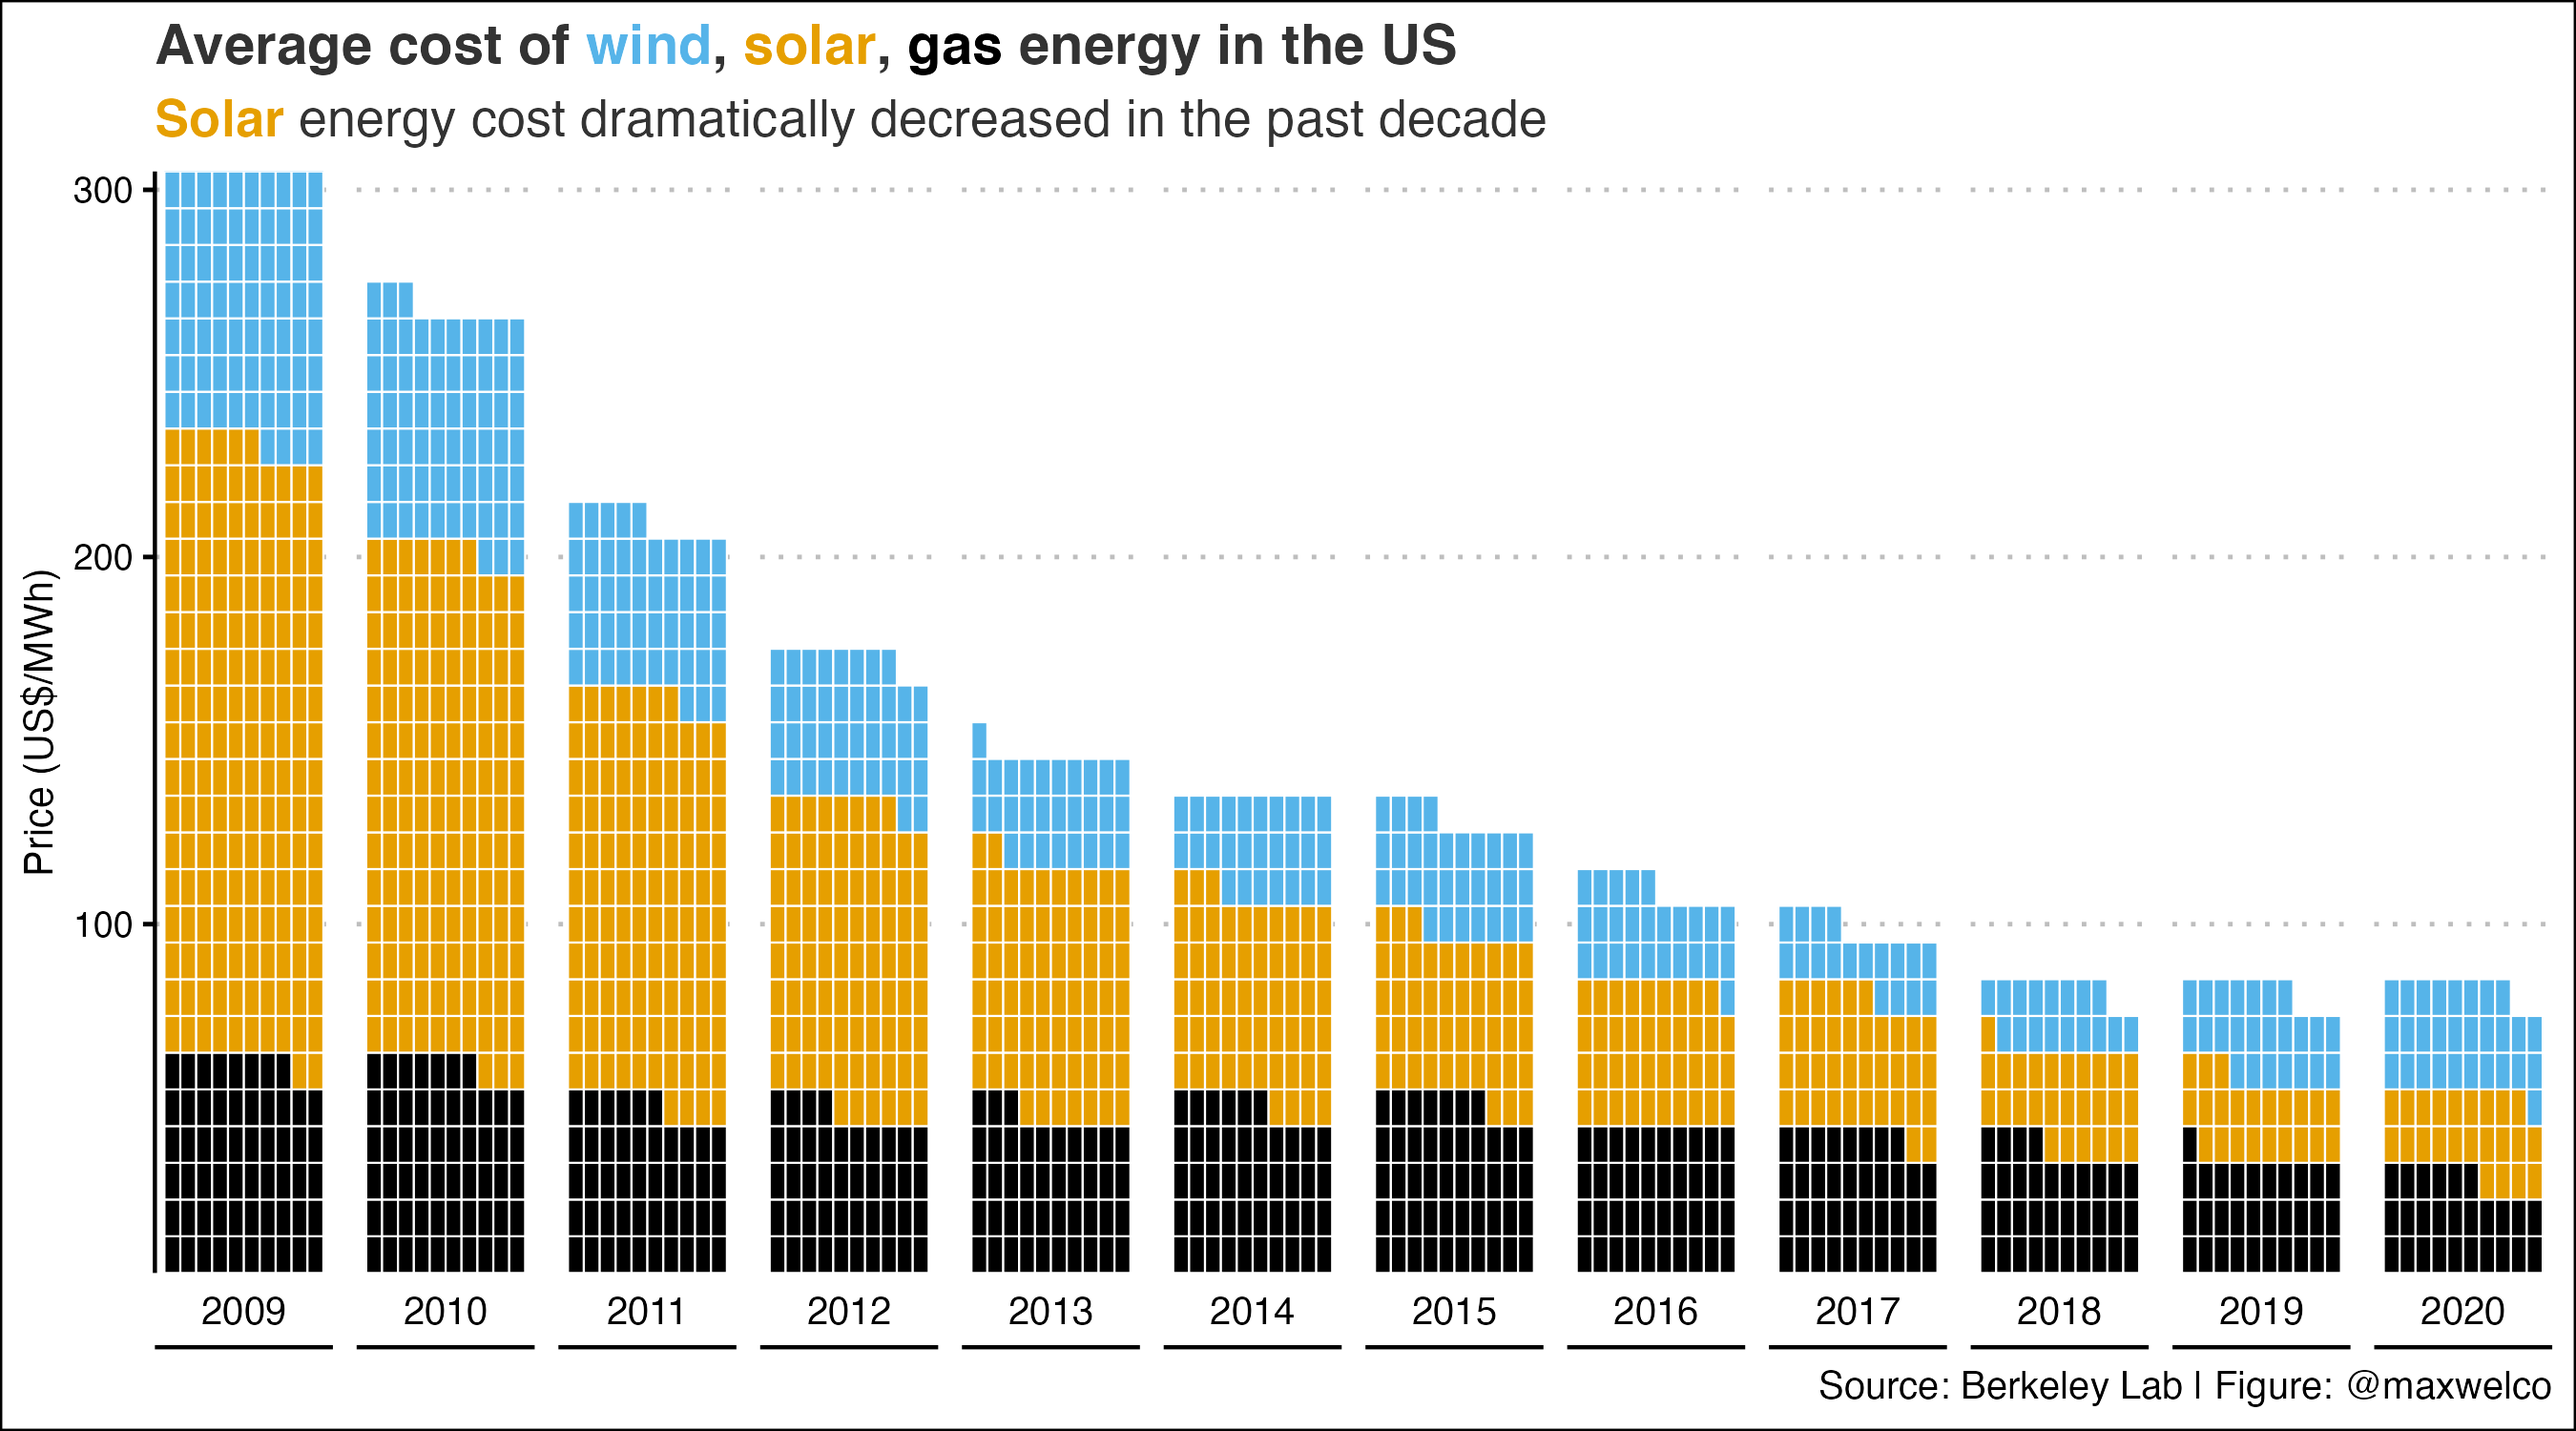
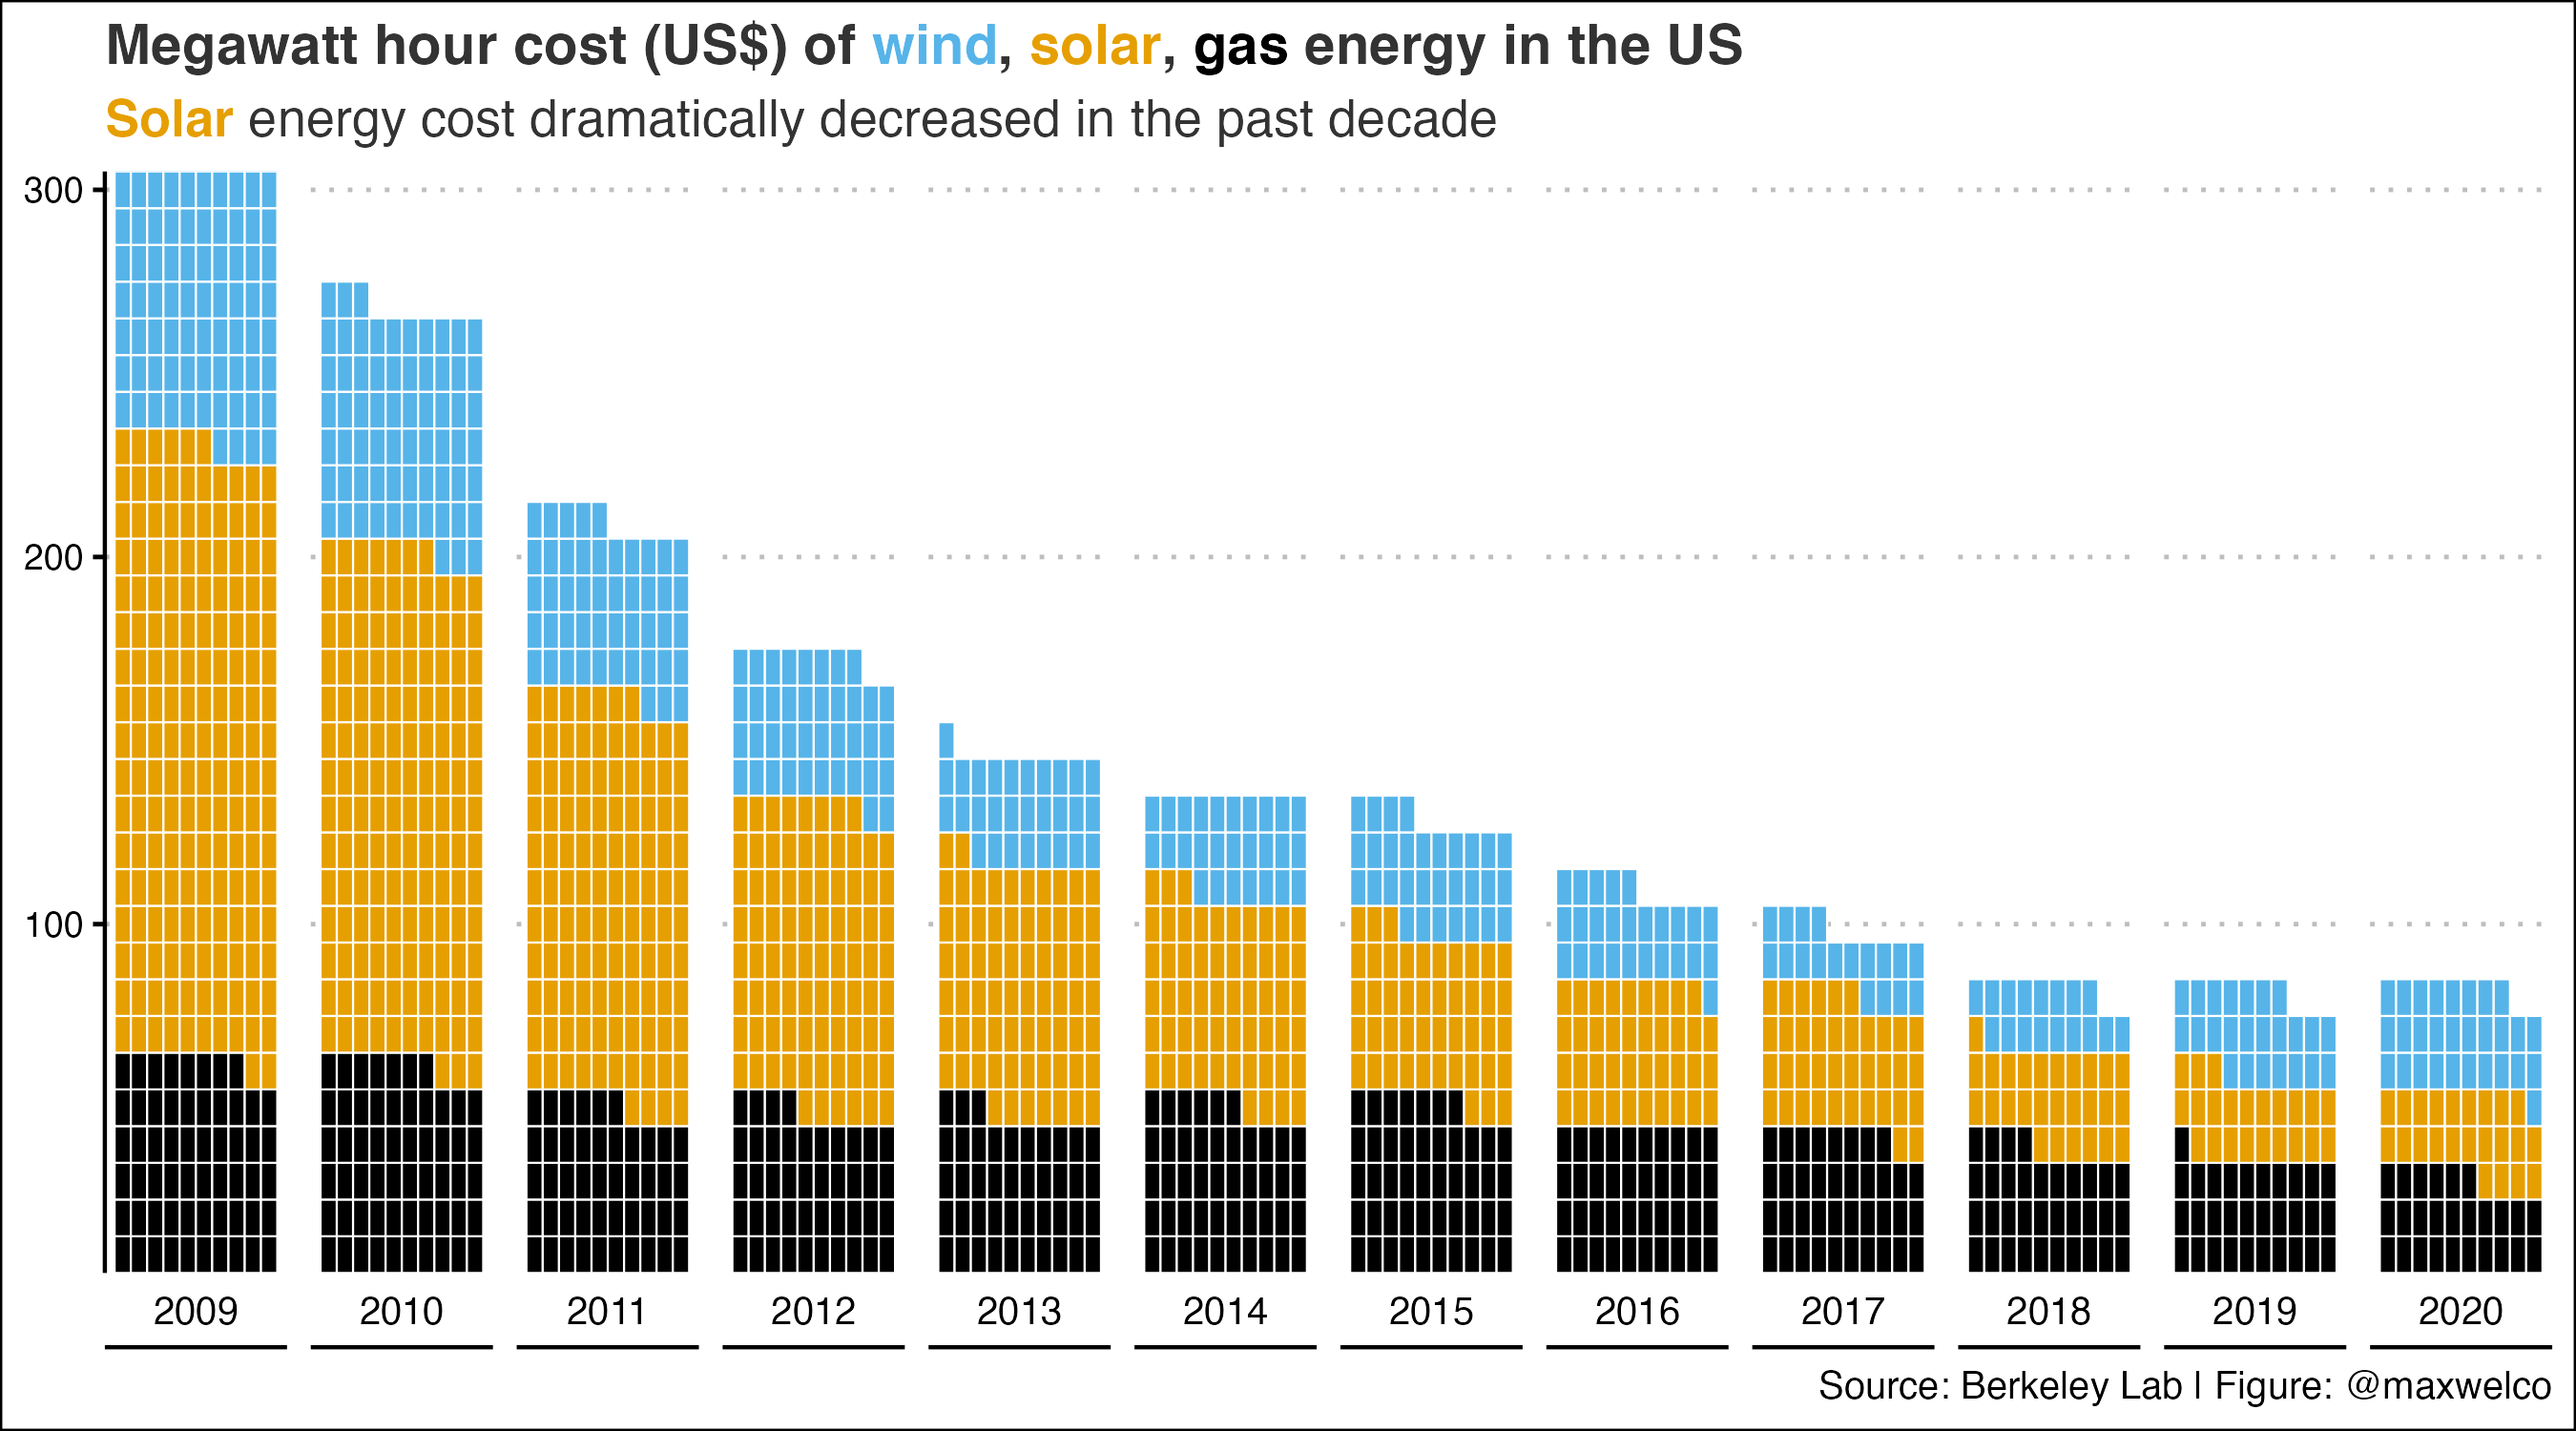
JH

Changed region(s): [[0.0, 0.0, 0.9956, 0.92]]

diff --git a/README.md b/README.md
@@ -4,7 +4,7 @@ My participation on [#TidyTuesday challenge](https://github.com/rfordatascience/
 
 ## 2022
 
-### Week 18 - Average cost of energy in the US
+### Week 18 - Megawatt hour cost (US$) of <b style='color:#56B4E9;'>wind</b>, <b style='color:#E69F00;'>solar</b>, <b style='color:#000000;'>gas</b> energy in the US
 
 ![Map energy cost](2022/week_18-solar/fig_18.png)
 
